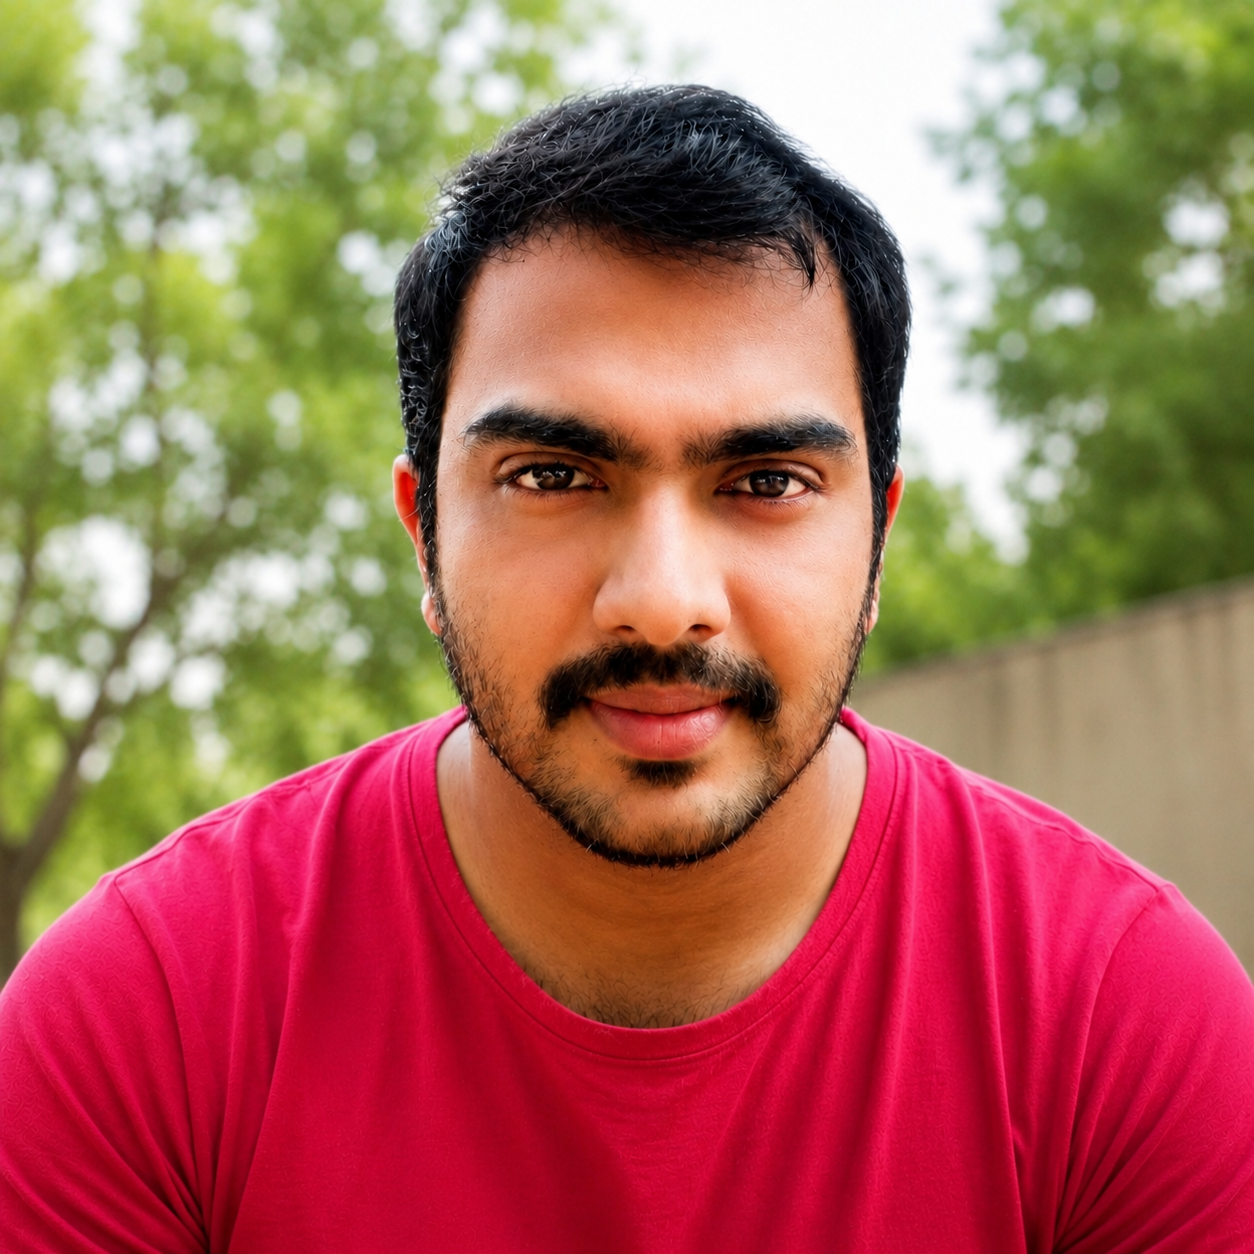
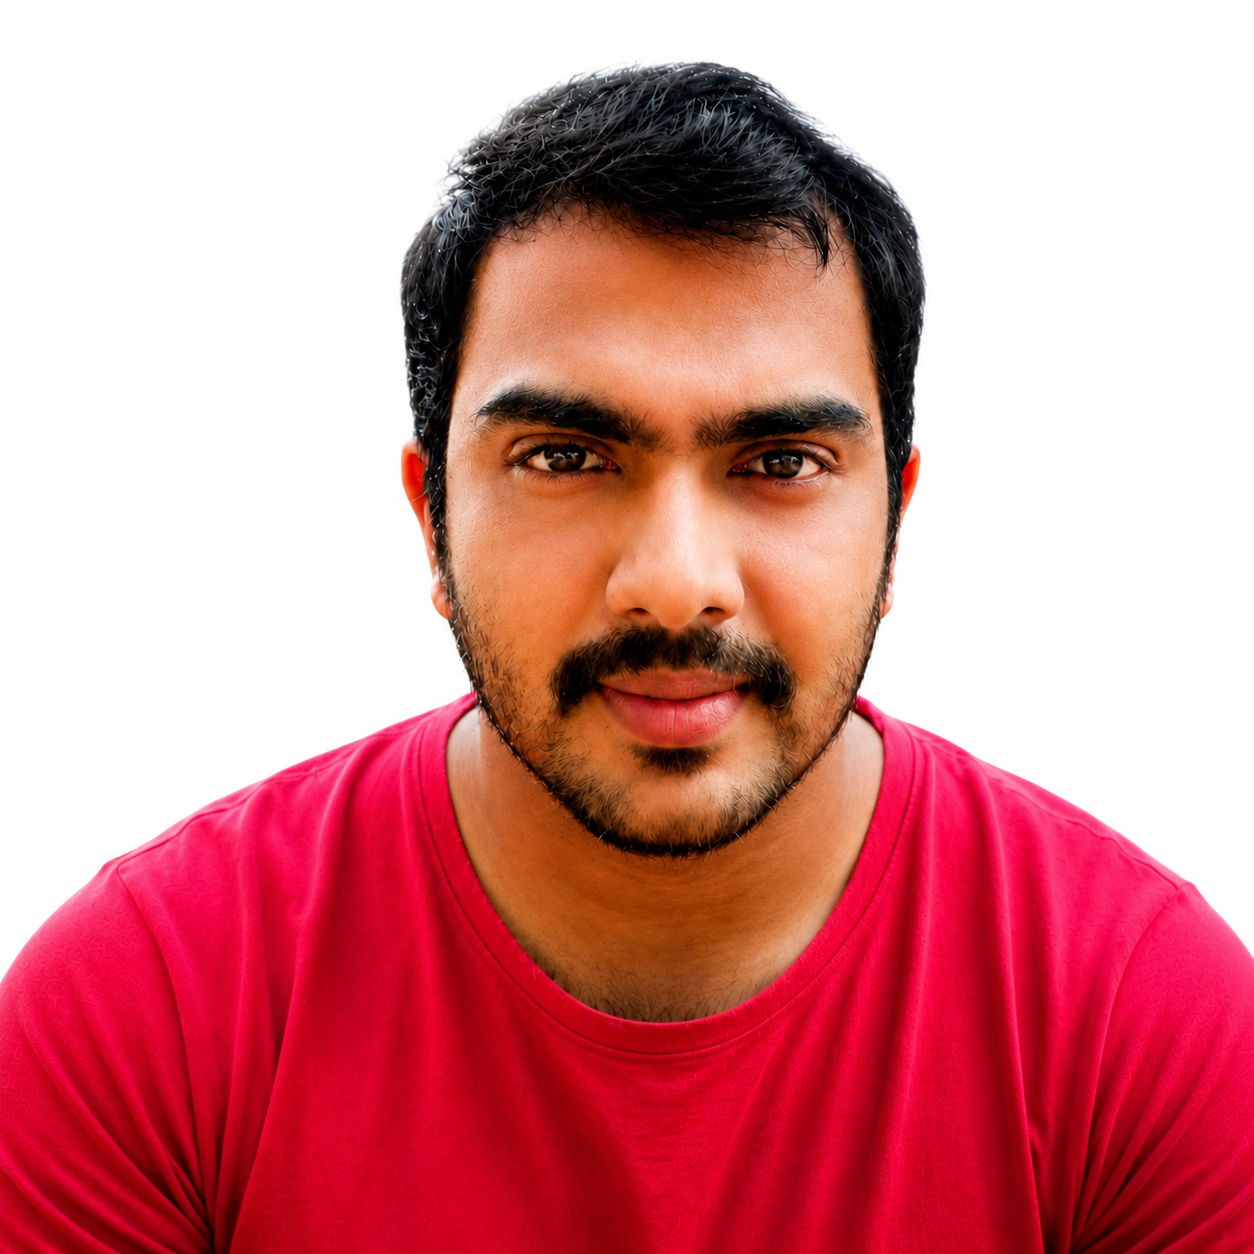
Updated client website

diff --git a/engralit-website/src/main/resources/templates/course-detail.html b/engralit-website/src/main/resources/templates/course-detail.html
@@ -227,6 +227,47 @@
     </div>
 </section>
 
+<!-- ===== KNOW YOUR INSTRUCTOR BANNER ===== -->
+<section class="py-5" style="background-color: #f4b41a;">
+    <div class="container text-center">
+        <h4 class="fw-bold text-navy mb-2" style="letter-spacing: 1px;">KNOW YOUR INSTRUCTOR</h4>
+        <h2 class="fw-bold text-dark mb-4">M. BALAJI</h2>
+
+        <div class="d-flex flex-wrap justify-content-center align-items-center gap-3">
+            <span class="fw-semibold text-dark">Government School Teacher</span>
+            <span class="rounded-circle bg-white" style="width:8px;height:8px;"></span>
+            <span class="fw-semibold text-dark">NET/SET Qualified</span>
+            <span class="rounded-circle bg-white" style="width:8px;height:8px;"></span>
+            <span class="fw-semibold text-dark">5-10 yrs Teaching Experience</span>
+        </div>
+    </div>
+</section>
+
+<!-- ===== INSTRUCTOR BIO ===== -->
+<section class="py-5 bg-white">
+    <div class="container">
+        <div class="row align-items-center g-5">
+
+            <div class="col-lg-5 text-center">
+                <img th:src="@{/images/instructor.jpg}" alt="M. Balaji"
+                     class="img-fluid rounded-4 shadow"
+                     style="max-height: 420px; object-fit: cover;">
+            </div>
+
+            <div class="col-lg-7">
+                <p class="text-muted" style="font-size: 1.05rem; line-height: 1.8;">
+                    Hello! I am M. Balaji, and I'm excited to be your guide and mentor on this learning journey.
+                    As a serving <strong>Government School Teacher</strong> with hands-on classroom experience,
+                    I specialize in English Literature, Linguistics, Literary Criticism, and ELT — helping students
+                    crack UGC NET and SET exams with confidence. My teaching approach combines exam-focused strategy
+                    with real classroom-tested methods to help you succeed.
+                </p>
+            </div>
+
+        </div>
+    </div>
+</section>
+
 <!-- Footer -->
 <footer class="bg-navy text-white py-4">
 

diff --git a/engralit-website/target/classes/templates/course-detail.html b/engralit-website/target/classes/templates/course-detail.html
@@ -227,6 +227,47 @@
     </div>
 </section>
 
+<!-- ===== KNOW YOUR INSTRUCTOR BANNER ===== -->
+<section class="py-5" style="background-color: #f4b41a;">
+    <div class="container text-center">
+        <h4 class="fw-bold text-navy mb-2" style="letter-spacing: 1px;">KNOW YOUR INSTRUCTOR</h4>
+        <h2 class="fw-bold text-dark mb-4">M. BALAJI</h2>
+
+        <div class="d-flex flex-wrap justify-content-center align-items-center gap-3">
+            <span class="fw-semibold text-dark">Government School Teacher</span>
+            <span class="rounded-circle bg-white" style="width:8px;height:8px;"></span>
+            <span class="fw-semibold text-dark">NET/SET Qualified</span>
+            <span class="rounded-circle bg-white" style="width:8px;height:8px;"></span>
+            <span class="fw-semibold text-dark">5-10 yrs Teaching Experience</span>
+        </div>
+    </div>
+</section>
+
+<!-- ===== INSTRUCTOR BIO ===== -->
+<section class="py-5 bg-white">
+    <div class="container">
+        <div class="row align-items-center g-5">
+
+            <div class="col-lg-5 text-center">
+                <img th:src="@{/images/instructor.jpg}" alt="M. Balaji"
+                     class="img-fluid rounded-4 shadow"
+                     style="max-height: 420px; object-fit: cover;">
+            </div>
+
+            <div class="col-lg-7">
+                <p class="text-muted" style="font-size: 1.05rem; line-height: 1.8;">
+                    Hello! I am M. Balaji, and I'm excited to be your guide and mentor on this learning journey.
+                    As a serving <strong>Government School Teacher</strong> with hands-on classroom experience,
+                    I specialize in English Literature, Linguistics, Literary Criticism, and ELT — helping students
+                    crack UGC NET and SET exams with confidence. My teaching approach combines exam-focused strategy
+                    with real classroom-tested methods to help you succeed.
+                </p>
+            </div>
+
+        </div>
+    </div>
+</section>
+
 <!-- Footer -->
 <footer class="bg-navy text-white py-4">
 

diff --git a/engralit-website/src/main/resources/templates/index.html b/engralit-website/src/main/resources/templates/index.html
@@ -13,6 +13,19 @@
 
     <!-- Custom CSS -->
     <link rel="stylesheet" th:href="@{/css/style.css}">
+
+    <!-- Scroll zoom-in animation -->
+    <style>
+        .zoom-in-scroll {
+            opacity: 0;
+            transform: scale(0.85);
+            transition: opacity 0.8s ease-out, transform 0.8s ease-out;
+        }
+        .zoom-in-scroll.visible {
+            opacity: 1;
+            transform: scale(1);
+        }
+    </style>
 </head>
 <body>
 
@@ -157,8 +170,8 @@
 
                 <img th:src="@{/images/instructor.png}"
                      alt="M. Balaji"
-                     class="img-fluid rounded-4 shadow"
-                     style="max-height:420px;object-fit:cover;">
+                     class="rounded-circle shadow zoom-in-scroll"
+                     style="width:280px;height:280px;object-fit:cover;border:6px solid #f4b41a;">
 
             </div>
 
@@ -247,6 +260,23 @@
 </a>
 
 <script src="https://cdn.jsdelivr.net/npm/bootstrap@5.3.3/dist/js/bootstrap.bundle.min.js"></script>
+
+<script>
+    document.addEventListener('DOMContentLoaded', function () {
+        const zoomEls = document.querySelectorAll('.zoom-in-scroll');
+        const observer = new IntersectionObserver((entries) => {
+            entries.forEach(entry => {
+                if (entry.isIntersecting) {
+                    entry.target.classList.add('visible');
+                } else {
+                    entry.target.classList.remove('visible');
+                }
+            });
+        }, { threshold: 0.3 });
+
+        zoomEls.forEach(el => observer.observe(el));
+    });
+</script>
 
 </body>
 </html>

diff --git a/engralit-website/target/classes/templates/index.html b/engralit-website/target/classes/templates/index.html
@@ -13,6 +13,19 @@
 
     <!-- Custom CSS -->
     <link rel="stylesheet" th:href="@{/css/style.css}">
+
+    <!-- Scroll zoom-in animation -->
+    <style>
+        .zoom-in-scroll {
+            opacity: 0;
+            transform: scale(0.85);
+            transition: opacity 0.8s ease-out, transform 0.8s ease-out;
+        }
+        .zoom-in-scroll.visible {
+            opacity: 1;
+            transform: scale(1);
+        }
+    </style>
 </head>
 <body>
 
@@ -157,8 +170,8 @@
 
                 <img th:src="@{/images/instructor.png}"
                      alt="M. Balaji"
-                     class="img-fluid rounded-4 shadow"
-                     style="max-height:420px;object-fit:cover;">
+                     class="rounded-circle shadow zoom-in-scroll"
+                     style="width:280px;height:280px;object-fit:cover;border:6px solid #f4b41a;">
 
             </div>
 
@@ -247,6 +260,23 @@
 </a>
 
 <script src="https://cdn.jsdelivr.net/npm/bootstrap@5.3.3/dist/js/bootstrap.bundle.min.js"></script>
+
+<script>
+    document.addEventListener('DOMContentLoaded', function () {
+        const zoomEls = document.querySelectorAll('.zoom-in-scroll');
+        const observer = new IntersectionObserver((entries) => {
+            entries.forEach(entry => {
+                if (entry.isIntersecting) {
+                    entry.target.classList.add('visible');
+                } else {
+                    entry.target.classList.remove('visible');
+                }
+            });
+        }, { threshold: 0.3 });
+
+        zoomEls.forEach(el => observer.observe(el));
+    });
+</script>
 
 </body>
 </html>
